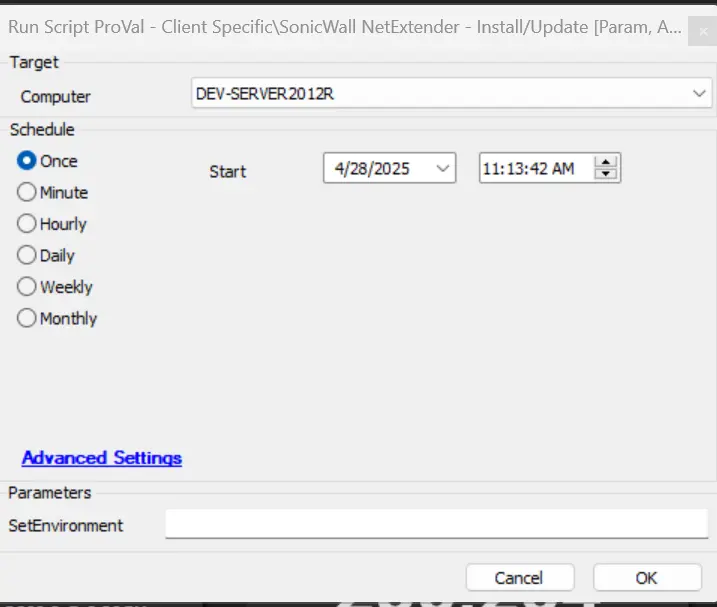
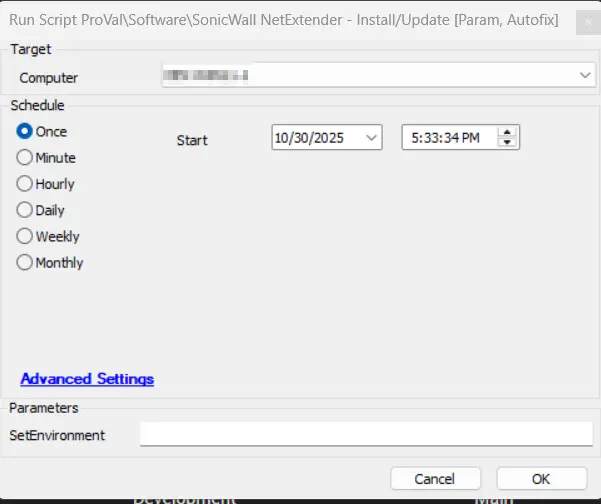
QA - Update
Fixed sample run images
Fixed fomattings
Renamed the md file for SonicWall - Install/update script

diff --git a/docs/solutions/sonicwall-netextender-installupdate.md b/docs/solutions/sonicwall-netextender-installupdate.md
@@ -4,7 +4,7 @@ slug: /70d9b103-f73f-4e68-a4aa-d2651e44d09a
 title: 'SonicWall NetExtender - Install/Update'
 title_meta: 'SonicWall NetExtender - Install/Update'
 keywords: ['sonicwall', 'netextender', 'installation', 'update', 'winget']
-description: 'This document provides a comprehensive guide on installing and updating the SonicWall NetExtender application using Winget. It includes associated scripts, internal monitors, and alert templates necessary for effective deployment and version detection of SonicWall NetExtender.'
+description: 'This document provides a comprehensive guide on installing and updating the SonicWall NetExtender application. It includes associated scripts, internal monitors, and alert templates necessary for effective deployment and version detection of SonicWall NetExtender.'
 tags: ['installation', 'software', 'update', 'sonicwall']
 draft: false
 unlisted: false
@@ -12,33 +12,35 @@ unlisted: false
 
 ## Purpose
 
-This solution ensures that the SonicWall NetExtender is installed or updated to the latest version.
+This document provides a comprehensive guide on installing and updating the SonicWall NetExtender application. It includes associated scripts, internal monitors, and alert templates necessary for effective deployment and version detection of SonicWall NetExtender.
 
 ## Associated Content
 
 | Content                                                                                      | Type            | Function                                                                                                                                                                                                                                                                                                                                                       |
 |----------------------------------------------------------------------------------------------|-----------------|----------------------------------------------------------------------------------------------------------------------------------------------------------------------------------------------------------------------------------------------------------------------------------------------------------------------------------------------------------------|
-| [Script - SonicWall NetExtender - Install/Update](/docs/823c8e22-0b24-4cf9-9e25-4048d2973b98) | Script          | This script installs/updates the latest version of the SonicWall NetExtender dynamically.                                                                                                                                                                                                                                        |
-| [Monitor - SonicWall NetExtender - Install/Update](/docs/b0ca57d2-351c-4f1d-9d98-954c1d77777e) | Internal Monitor | This internal monitor detects the online Windows agent where the SonicWall NetExtender is installed for the upgrade. It depends on the client-based EDF 'SonicWall NetExtender Deployment' to check for the deployment. It also relies on the location-based and computer-based EDF 'SonicWall NetExtender Exclude' to exclude particular locations/agents from the deployed clients. To install the SonicWall using this monitor, check the implementation steps.|
-| [Script - Application - Latest Version](/docs/ffb77c6c-8dd7-4ca5-82a2-327b1658cbde) | Script          | This script is designed to store the latest version of SonicWall NetExtender in the system properties 'SonicWall_Netextender_Version'.                                                                                                                                                                                                                         |
-| [Monitor - SonicWall NetExtender - Latest Version Detection](/docs/62ad1299-3e65-4bf7-a415-307fdf9a162c) | Internal Monitor | This monitor schedules the script [Script - Application - Latest Version](/docs/ffb77c6c-8dd7-4ca5-82a2-327b1658cbde) to collect the latest version details of the SonicWall NetExtender application every month and update it to the system properties `SonicWall.NetExtender`.                                                                         |
-| **△ Custom - Autofix - SonicWall NetExtender - Latest Version Collector**                   | Alert Template   | This alert template runs the script [Script - Application - Latest Version](/docs/ffb77c6c-8dd7-4ca5-82a2-327b1658cbde) for the latest version detection of SonicWall NetExtender and stores it in the system properties. It should be scheduled with the monitor [Monitor - SonicWall NetExtender - Latest Version Detection](/docs/62ad1299-3e65-4bf7-a415-307fdf9a162c).                     |
-| **△ Custom - Autofix - SonicWall NetExtender - Install/Update**                           | Alert Template   | This alert template runs the script [Script - SonicWall NetExtender - Install/Update](/docs/823c8e22-0b24-4cf9-9e25-4048d2973b98) for the SonicWall NetExtender install/update. It should be scheduled with the monitor [Monitor - SonicWall NetExtender - Install/Update](/docs/b0ca57d2-351c-4f1d-9d98-954c1d77777e).                                            |
+| [SonicWall NetExtender - Install/Update](/docs/823c8e22-0b24-4cf9-9e25-4048d2973b98) | Script          | This script installs/updates the latest version of the SonicWall NetExtender dynamically.                                                                                                                                                                                                                                        |
+| [SonicWall NetExtender - Install/Update](/docs/b0ca57d2-351c-4f1d-9d98-954c1d77777e) | Internal Monitor | This internal monitor detects the online Windows agent where the SonicWall NetExtender is installed for the upgrade. It depends on the client-based EDF 'SonicWall NetExtender Deployment' to check for the deployment. It also relies on the location-based and computer-based EDF 'SonicWall NetExtender Exclude' to exclude particular locations/agents from the deployed clients. To install the SonicWall using this monitor, check the implementation steps.|
+| [Application - Latest Version](/docs/ffb77c6c-8dd7-4ca5-82a2-327b1658cbde) | Script          | This script is designed to store the latest version of SonicWall NetExtender in the system properties `SonicWALL.NetExtender`.                                                                                                                                                                                                                         |
+| [SonicWall NetExtender - Latest Version Detection](/docs/62ad1299-3e65-4bf7-a415-307fdf9a162c) | Internal Monitor | This monitor schedules the [Script - Application - Latest Version](/docs/ffb77c6c-8dd7-4ca5-82a2-327b1658cbde) to collect the latest version details of the SonicWall NetExtender application every month and update it to the system properties `SonicWall.NetExtender`.                                                                         |
+| **△ Custom - Autofix - SonicWall NetExtender - Latest Version Collector**                   | Alert Template   | This alert template runs the script [Application - Latest Version](/docs/ffb77c6c-8dd7-4ca5-82a2-327b1658cbde) for the latest version detection of SonicWall NetExtender and stores it in the system properties. It should be scheduled with the monitor [SonicWall NetExtender - Latest Version Detection](/docs/62ad1299-3e65-4bf7-a415-307fdf9a162c).                     |
+| **△ Custom - Autofix - SonicWall NetExtender - Install/Update**                           | Alert Template   | This alert template runs the script [SonicWall NetExtender - Install/Update](/docs/823c8e22-0b24-4cf9-9e25-4048d2973b98) for the SonicWall NetExtender install/update. It should be scheduled with the monitor [SonicWall NetExtender - Install/Update](/docs/b0ca57d2-351c-4f1d-9d98-954c1d77777e).                                            |
 | SonicWall NetExtender Deployment                                                              | Client-EDF      | This EDF needs to be checked for the monitor to detect the clients where the SonicWall NetExtender deployment is needed on their agents.  ![Client EDF](../../static/img/docs/70d9b103-f73f-4e68-a4aa-d2651e44d09a/image-2.webp)                                                                                                                                                                                              |
 | SonicWall NetExtender Exclude                                                                 | Location-EDF    | This EDF check at the location level will exclude the agents of the locations from the SonicWall NetExtender deployment.  !![Location EDF](../../static/img/docs/70d9b103-f73f-4e68-a4aa-d2651e44d09a/image-3.webp)                                                                                                                                                                                                                               |
 | SonicWall NetExtender Exclude                                                                 | Computer-EDF    | This EDF check will exclude the agents from the SonicWall NetExtender deployment.  ![Computer EDF](../../static/img/docs/70d9b103-f73f-4e68-a4aa-d2651e44d09a/image-4.webp)                      |
 
 ## Implementation
 
-1. Import the scripts [Script - SonicWall NetExtender - Install/Update](/docs/823c8e22-0b24-4cf9-9e25-4048d2973b98) and [Script - Application - Latest Version](/docs/ffb77c6c-8dd7-4ca5-82a2-327b1658cbde).
-2. Import the internal monitors [Monitor - SonicWall NetExtender - Install/Update](/docs/b0ca57d2-351c-4f1d-9d98-954c1d77777e) and [Monitor - SonicWall NetExtender - Latest Version Detection](/docs/62ad1299-3e65-4bf7-a415-307fdf9a162c).
+1. Import the scripts [SonicWall NetExtender - Install/Update](/docs/823c8e22-0b24-4cf9-9e25-4048d2973b98) and [Application - Latest Version](/docs/ffb77c6c-8dd7-4ca5-82a2-327b1658cbde).
+2. Import the internal monitors [SonicWall NetExtender - Install/Update](/docs/b0ca57d2-351c-4f1d-9d98-954c1d77777e) and [SonicWall NetExtender - Latest Version Detection](/docs/62ad1299-3e65-4bf7-a415-307fdf9a162c).
 3. Import the alert templates `△ Custom - Autofix - SonicWall NetExtender - Latest Version Collector` and `△ Custom - Autofix - SonicWall NetExtender - Install/Update`.
-4. Apply the `△ Custom - Autofix - SonicWall NetExtender - Install/Update` alert template to the [Monitor - SonicWall NetExtender - Update](/docs/b0ca57d2-351c-4f1d-9d98-954c1d77777e).
+4. Apply the `△ Custom - Autofix - SonicWall NetExtender - Install/Update` alert template to the [Monitor - SonicWall NetExtender - Install/Update](/docs/b0ca57d2-351c-4f1d-9d98-954c1d77777e).
 5. Apply the `△ Custom - Autofix - SonicWall NetExtender - Latest Version Collector` alert template to the [Monitor - SonicWall NetExtender - Latest Version Detection](/docs/62ad1299-3e65-4bf7-a415-307fdf9a162c).
 6. Run the [Monitor - SonicWall NetExtender - Install/Update](/docs/b0ca57d2-351c-4f1d-9d98-954c1d77777e). and ensure the script populates the system property.  
 
    ![Property](../../static/img/docs/70d9b103-f73f-4e68-a4aa-d2651e44d09a/image-5.webp)
 7. Enable the deployment monitor.
 8. The current solution is built for the SonicWall NetExtender update only. If the Install is required then please make the required changes in the monitor as highlighted in the screenshot:
+
+   - Set the value to 1 in the highlighted part of the screenshot to install the application on machines that are missing it. Leave it as 0 to only update the application on machines that already have it installed.
 
 ![Image1](../../static/img/docs/70d9b103-f73f-4e68-a4aa-d2651e44d09a/image-1.webp)

diff --git a/docs/cwa/scripts/sonicwall-netextender-install-update.md b/docs/cwa/scripts/sonicwall-netextender-install-update.md
@@ -15,8 +15,10 @@ This script installs/updates the latest version of the SonicWall NetExtender dyn
 
 ## Sample Run
 
+**First Run:** Execute the script with the user parameter `SetEnvironment` as 1 to import the EDFs needed for the script.
 ![Import EDFs Sample Run](../../../static/img/docs/823c8e22-0b24-4cf9-9e25-4048d2973b98/image.webp)
 
+**Regular Run:**
 ![Deploy SonicWall NetExtender Sample Run](../../../static/img/docs/823c8e22-0b24-4cf9-9e25-4048d2973b98/image-1.webp)
 
 ## Dependencies
@@ -26,14 +28,14 @@ This script installs/updates the latest version of the SonicWall NetExtender dyn
 
 ## Process
 
-- The script streamlines the installation process for SonicWall NetExtender, a VPN client application. It performs the following key operations:
-- Detects Existing Installations: Determines whether NetExtender is already installed and identifies the suitable installer format (MSI or EXE).
-- Retrieves Latest Version Info: This is collected by the [Script - Application - Latest Version Detection](/docs/ffb77c6c-8dd7-4ca5-82a2-327b1658cbde) and stored in the system properties `SonicWALL.NetExtender`.
-- Version Comparison: Compares the installed version with the latest available to decide if an update is needed.
-- Architecture-Based Installer Selection: Automatically selects the correct installer (x86, x64, or ARM64) based on the system architecture.
-- Secure Working Directory Setup: Creates a temporary directory with appropriate permissions for safe installation.
-- Silent Installation: Downloads and installs the software silently without user interaction.
-- Post-Installation Verification: Confirms successful installation and reports the outcome.
+
+- **Detects Existing Installations**: Determines whether NetExtender is already installed and identifies the suitable installer format (MSI or EXE).
+- **Retrieves Latest Version Info:** This is collected by the [Script - Application - Latest Version Detection](/docs/ffb77c6c-8dd7-4ca5-82a2-327b1658cbde) and stored in the system properties `SonicWALL.NetExtender`.
+- **Version Comparison:** Compares the installed version with the latest available to decide if an update is needed.
+- **Architecture-Based Installer Selection:** Automatically selects the correct installer (x86, x64, or ARM64) based on the system architecture.
+- **Secure Working Directory Setup:** Creates a temporary directory with appropriate permissions for safe installation.
+- **Silent Installation:** Downloads and installs the software silently without user interaction.
+- **Post-Installation Verification:** Confirms successful installation and reports the outcome.
 - The script supports both MSI and EXE formats and includes robust error handling and validation mechanisms. If NetExtender is not already present on the system, the MSI version will be installed by default.
 
 ## Output

diff --git a/docs/cwa/monitors/sonicwall-netextender-update.md b/docs/cwa/monitors/sonicwall-netextender-update.md
@@ -1,8 +1,8 @@
 ---
 id: 'b0ca57d2-351c-4f1d-9d98-954c1d77777e'
 slug: /b0ca57d2-351c-4f1d-9d98-954c1d77777e
-title: 'ProVal - Production - SonicWall NetExtender - Install/Update'
-title_meta: 'ProVal - Production - SonicWall NetExtender - Install/Update'
+title: 'SonicWall NetExtender - Install/Update'
+title_meta: 'SonicWall NetExtender - Install/Update'
 keywords: ['sonicwall', 'netextender', 'monitor', 'upgrade', 'deployment', 'edf', 'version']
 description: 'This document outlines the setup of an internal monitor for detecting the online Windows agent with SonicWall NetExtender installed, facilitating upgrades and excluding specific locations or agents as needed. It details dependencies and integration with other monitors for effective management.'
 tags: ['deployment', 'sonicwall']
@@ -12,9 +12,11 @@ unlisted: false
 
 ## Summary
 
-This internal monitor detects the online Windows agent where the SonicWall NetExtender is installed for the upgrade. It depends on the client-based EDF 'SonicWall NetExtender Deployment' to check for the SonicWall NetExtender Install/Update. It also relies on the location-based and computer-based EDF 'SonicWall NetExtender Exclude' to exclude particular locations or agents from the deployed clients.
+This internal monitor detects the online Windows agent where the SonicWall NetExtender is installed for the upgrade. It depends on the client-based EDF `SonicWall NetExtender Deployment` to check for the SonicWall NetExtender Install/Update. 
 
-This monitor is also set up to grab the latest version of SonicWall NetExtender from the system property created from [Script - Application - Latest Version](/docs/ffb77c6c-8dd7-4ca5-82a2-327b1658cbde). This monitor should be paired with the other internal monitor [Monitor - SonicWall NetExtender - Latest Version Detection](/docs/62ad1299-3e65-4bf7-a415-307fdf9a162c).
+It also relies on the location-based and computer-based EDF `SonicWall NetExtender Exclude` to exclude particular locations or agents from the deployed clients.
+
+This monitor is also set up to grab the latest version of SonicWall NetExtender from the system property created from [Script - Application - Latest Version](/docs/ffb77c6c-8dd7-4ca5-82a2-327b1658cbde). This monitor should be paired with the other internal monitor [SonicWall NetExtender - Latest Version Detection](/docs/62ad1299-3e65-4bf7-a415-307fdf9a162c).
 
 ## Dependencies
 

diff --git a/docs/cwa/monitors/sonicwall-netextender-latest-version-detection.md b/docs/cwa/monitors/sonicwall-netextender-latest-version-detection.md
@@ -16,8 +16,8 @@ This monitor schedules the [Script - Application - Latest Version Detection](/do
 
 ## Dependencies
 
-[Script - Application - Latest Version](/docs/ffb77c6c-8dd7-4ca5-82a2-327b1658cbde)
-[Solution - SonicWall NetExtender - Install/Update](/docs/70d9b103-f73f-4e68-a4aa-d2651e44d09a)
+- [Script - Application - Latest Version](/docs/ffb77c6c-8dd7-4ca5-82a2-327b1658cbde)
+- [Solution - SonicWall NetExtender - Install/Update](/docs/70d9b103-f73f-4e68-a4aa-d2651e44d09a)
 
 ## Target
 
